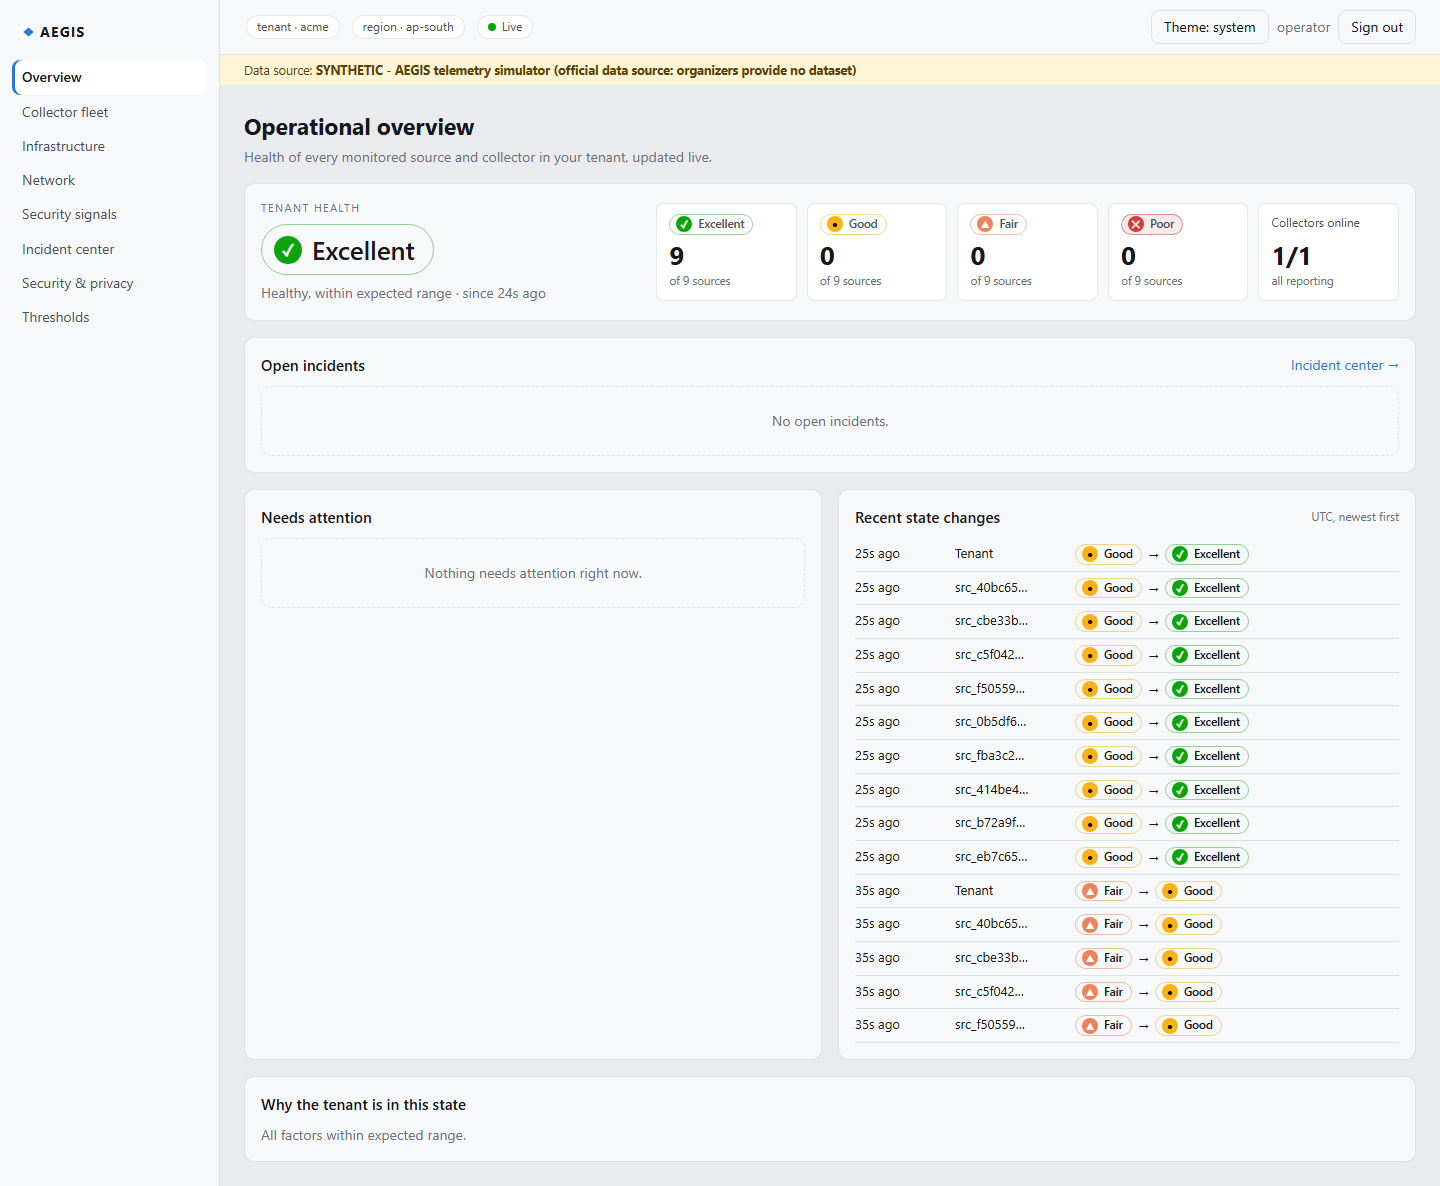
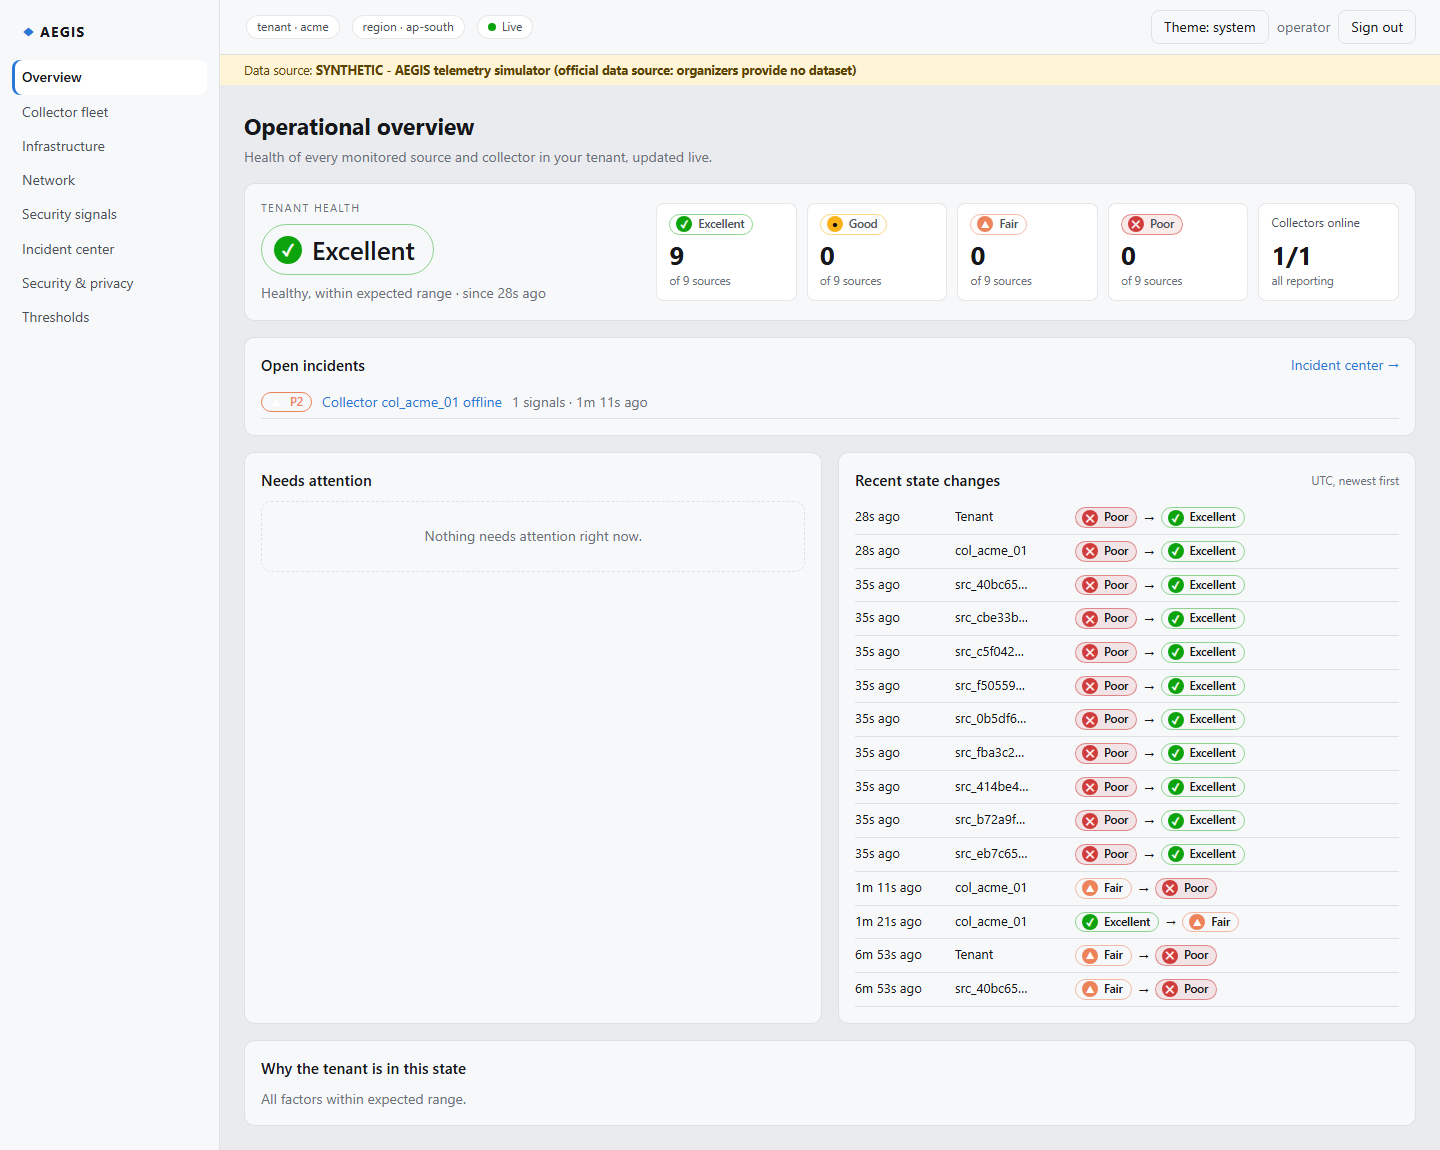
Live e2e 11/11 on 24cbdce (Privacy Glass deploy); refreshed evidence screenshots

diff --git a/docs/PROJECT_STATE.md b/docs/PROJECT_STATE.md
@@ -3,7 +3,7 @@
 - **Current phase:** 8 partial: Privacy Glass (M3) done and deployed (24cbdce, 2026-11-21); 9 and 10 complete
 - **Last approved phase:** 6 (approved 2026-11-20). **Phase 8 Privacy Glass approved and built 2026-11-21; other Phase 7-8 items deferred by user decision** (implement after the 2026-11-21 09:00 evaluation); next: demo/validation (9-10) on request
 - **Evaluation:** 2026-11-21 09:00 - criteria: functional product, two-tier (frontend + backend + DB), AI engine, security. Demo: `scripts/demo.ps1` + `docs/DEMO_SCRIPT.md`
-- **Git / deployed:** backend 24cbdce on the VPS (Privacy Glass receipt endpoint); dashboard unchanged since f8f1920 (build.txt). Live e2e 11/11 on f8f1920; re-run on 24cbdce pending (first run invalid: a demo session was running). **The user commits and pushes; never commit/push without being told.**
+- **Git / deployed:** backend 24cbdce on the VPS (Privacy Glass receipt endpoint); dashboard unchanged since f8f1920 (build.txt). Live e2e 11/11 on 24cbdce (2026-11-21; an earlier run was invalid because a demo session held port 9100). **The user commits and pushes; never commit/push without being told.**
 - **Database:** Supabase (ADR-18, Free plan): `aegis-ap-south` (Mumbai) + `aegis-eu-west` (Frankfurt), both at migration 0005 (verified: RLS + policies on all tenant tables, aegis_app no DELETE). Local docker `aegis-pg` (127.0.0.1:55432) for automated tests only.
 - **LLM:** Gemini (free tier) key in apps/saas-api/.env and VPS /etc/aegis/saas.env (root:aegis 0640); enabled for ap-south only (eu-west disabled: residency)
 - **Hackathon clock:** started ≈ 1 h before Phase 1 began on 2026-11-20

diff --git a/docs/TEST_RESULTS.md b/docs/TEST_RESULTS.md
@@ -102,3 +102,4 @@
 | 8 | **Privacy Glass (M3)**: collector `/local/glass` (raw → masked → exact outbound JSON + SHA-256 → SaaS receipt), leak check, ledger-wide leak scan, strict-CSP static page; SaaS collector receipt endpoint (hash only, own payloads, 401 wrong region, 404 other tenant); planted-leak negative control; demo timeline with S1 still yields exactly 3 incidents. Gate 238/238 normal and CI parity, web 22/22 | PASSED | `test_glass.py` (9), `test_collector_receipt.py` (2), `test_demo_timeline_s1_s3_s5_s6_gives_exactly_three_incidents` |
 | 8 | **Privacy Glass live vs production (24cbdce)**: security, metric and topology payloads: collector SHA-256 == SaaS SHA-256 (receipts fetched live), 0 sensitive values in outbound (0/151, 0/7), leak scan 0 hits over 20,000 payloads for 65 values from 51 secret-bearing records | PASSED | `phase8_glass_live.json` |
 | 8 | Live Playwright suite after the 24cbdce deploy: 8 passed, 2 FAILED (new S5 incident; collector offline). Cause: a separate `demo.ps1` session was already running on the laptop (collector on 9100 since 06:26 IST), so the test collector never started and its traffic merged into the demo's incidents. Not a product defect; re-run pending with the demo stopped | INVALID RUN (interference) | `scripts/e2e_live.py` |
+| 8 | **Live Playwright re-run on 24cbdce (demo stopped): 11/11** - headers; overview; charts via WS; source detail; fleet online; new baseline-deviation incident without reload; security & privacy live checks; sign-out; collector stopped -> Poor without reload (20.9 s) | PASSED (2026-11-21 ~07:00 IST) | `scripts/e2e_live.py`, screenshots refreshed |
